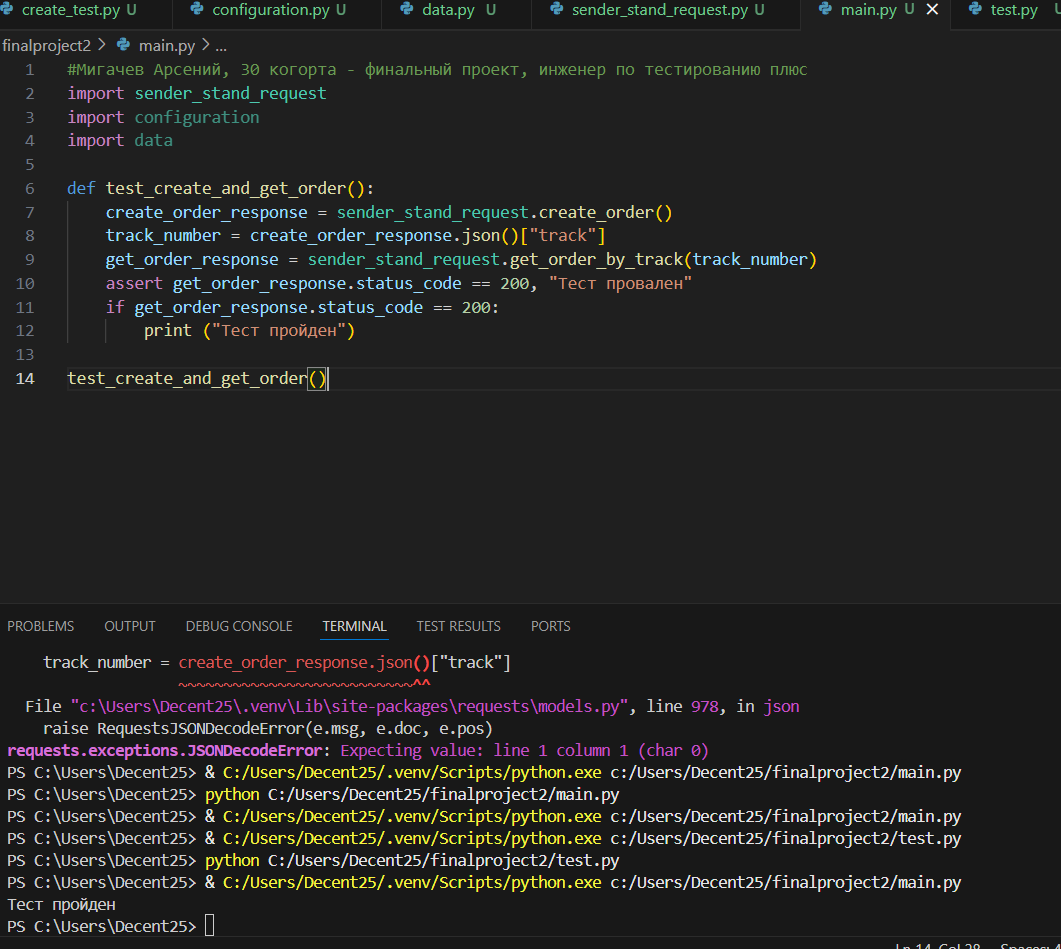
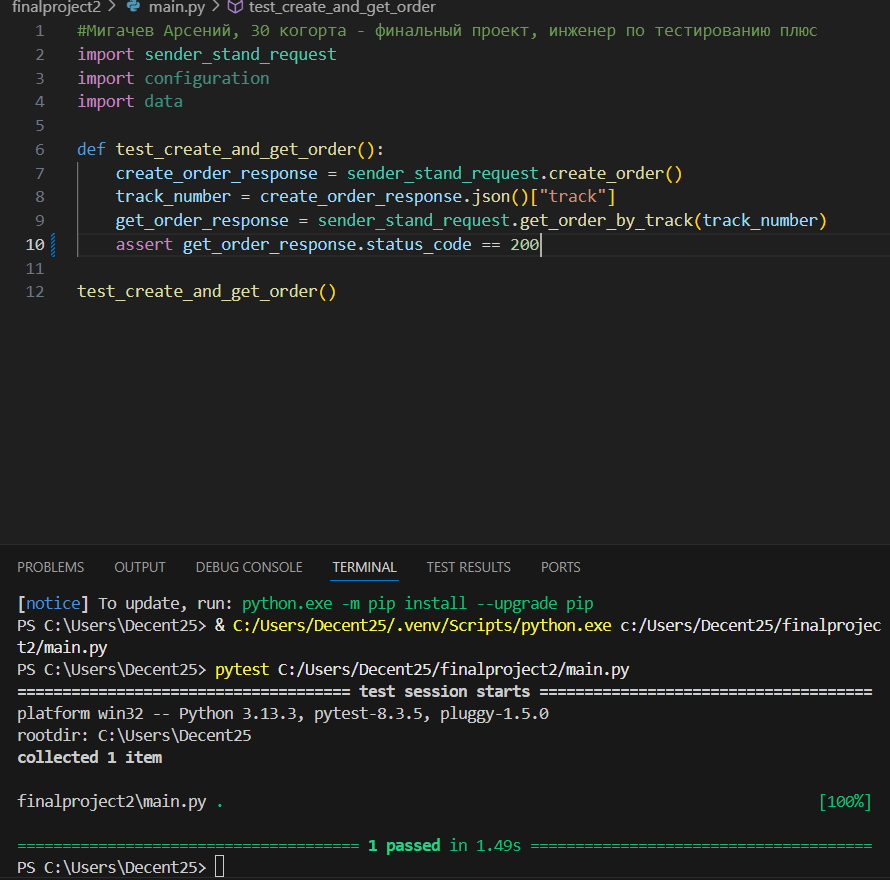
Доработка

diff --git a/sender_stand_request.py b/sender_stand_request.py
@@ -4,7 +4,8 @@ import data
 
 def create_order():
     url = configuration.BASE_URL + configuration.CREATE_ORDER_ENDPOINT
-    response = requests.post(url, json=data.order_data, headers = data.headers)
+    order_data = data.body
+    response = requests.post(url, json=order_data, headers = data.headers)
     return response
 
 def get_order_by_track(track_number):

diff --git a/configuration.py b/configuration.py
@@ -1,3 +1,3 @@
-BASE_URL = "https://2e13a190-c44e-4f8e-a8a4-f9309ba4fc58.serverhub.praktikum-services.ru/"
+BASE_URL = "https://dfe1bfd8-38b5-4159-b362-904db8b574ae.serverhub.praktikum-services.ru"
 CREATE_ORDER_ENDPOINT = "/api/v1/orders"
 GET_ORDER_ENDPOINT = "/api/v1/orders/track"

diff --git a/main.py b/main.py
@@ -10,5 +10,3 @@ def test_create_and_get_order():
     assert get_order_response.status_code == 200, "Тест провален"
     if get_order_response.status_code == 200:
         print ("Тест пройден")
-
-test_create_and_get_order()

diff --git a/data.py b/data.py
@@ -2,7 +2,7 @@ headers = {
     "Content-Type": "application/json"
 }
  
-order_data = {
+body = {
     "firstName": "Иван",
     "lastName": "Иванов",
     "address": "Москва, ул. Пушкина, 1",
